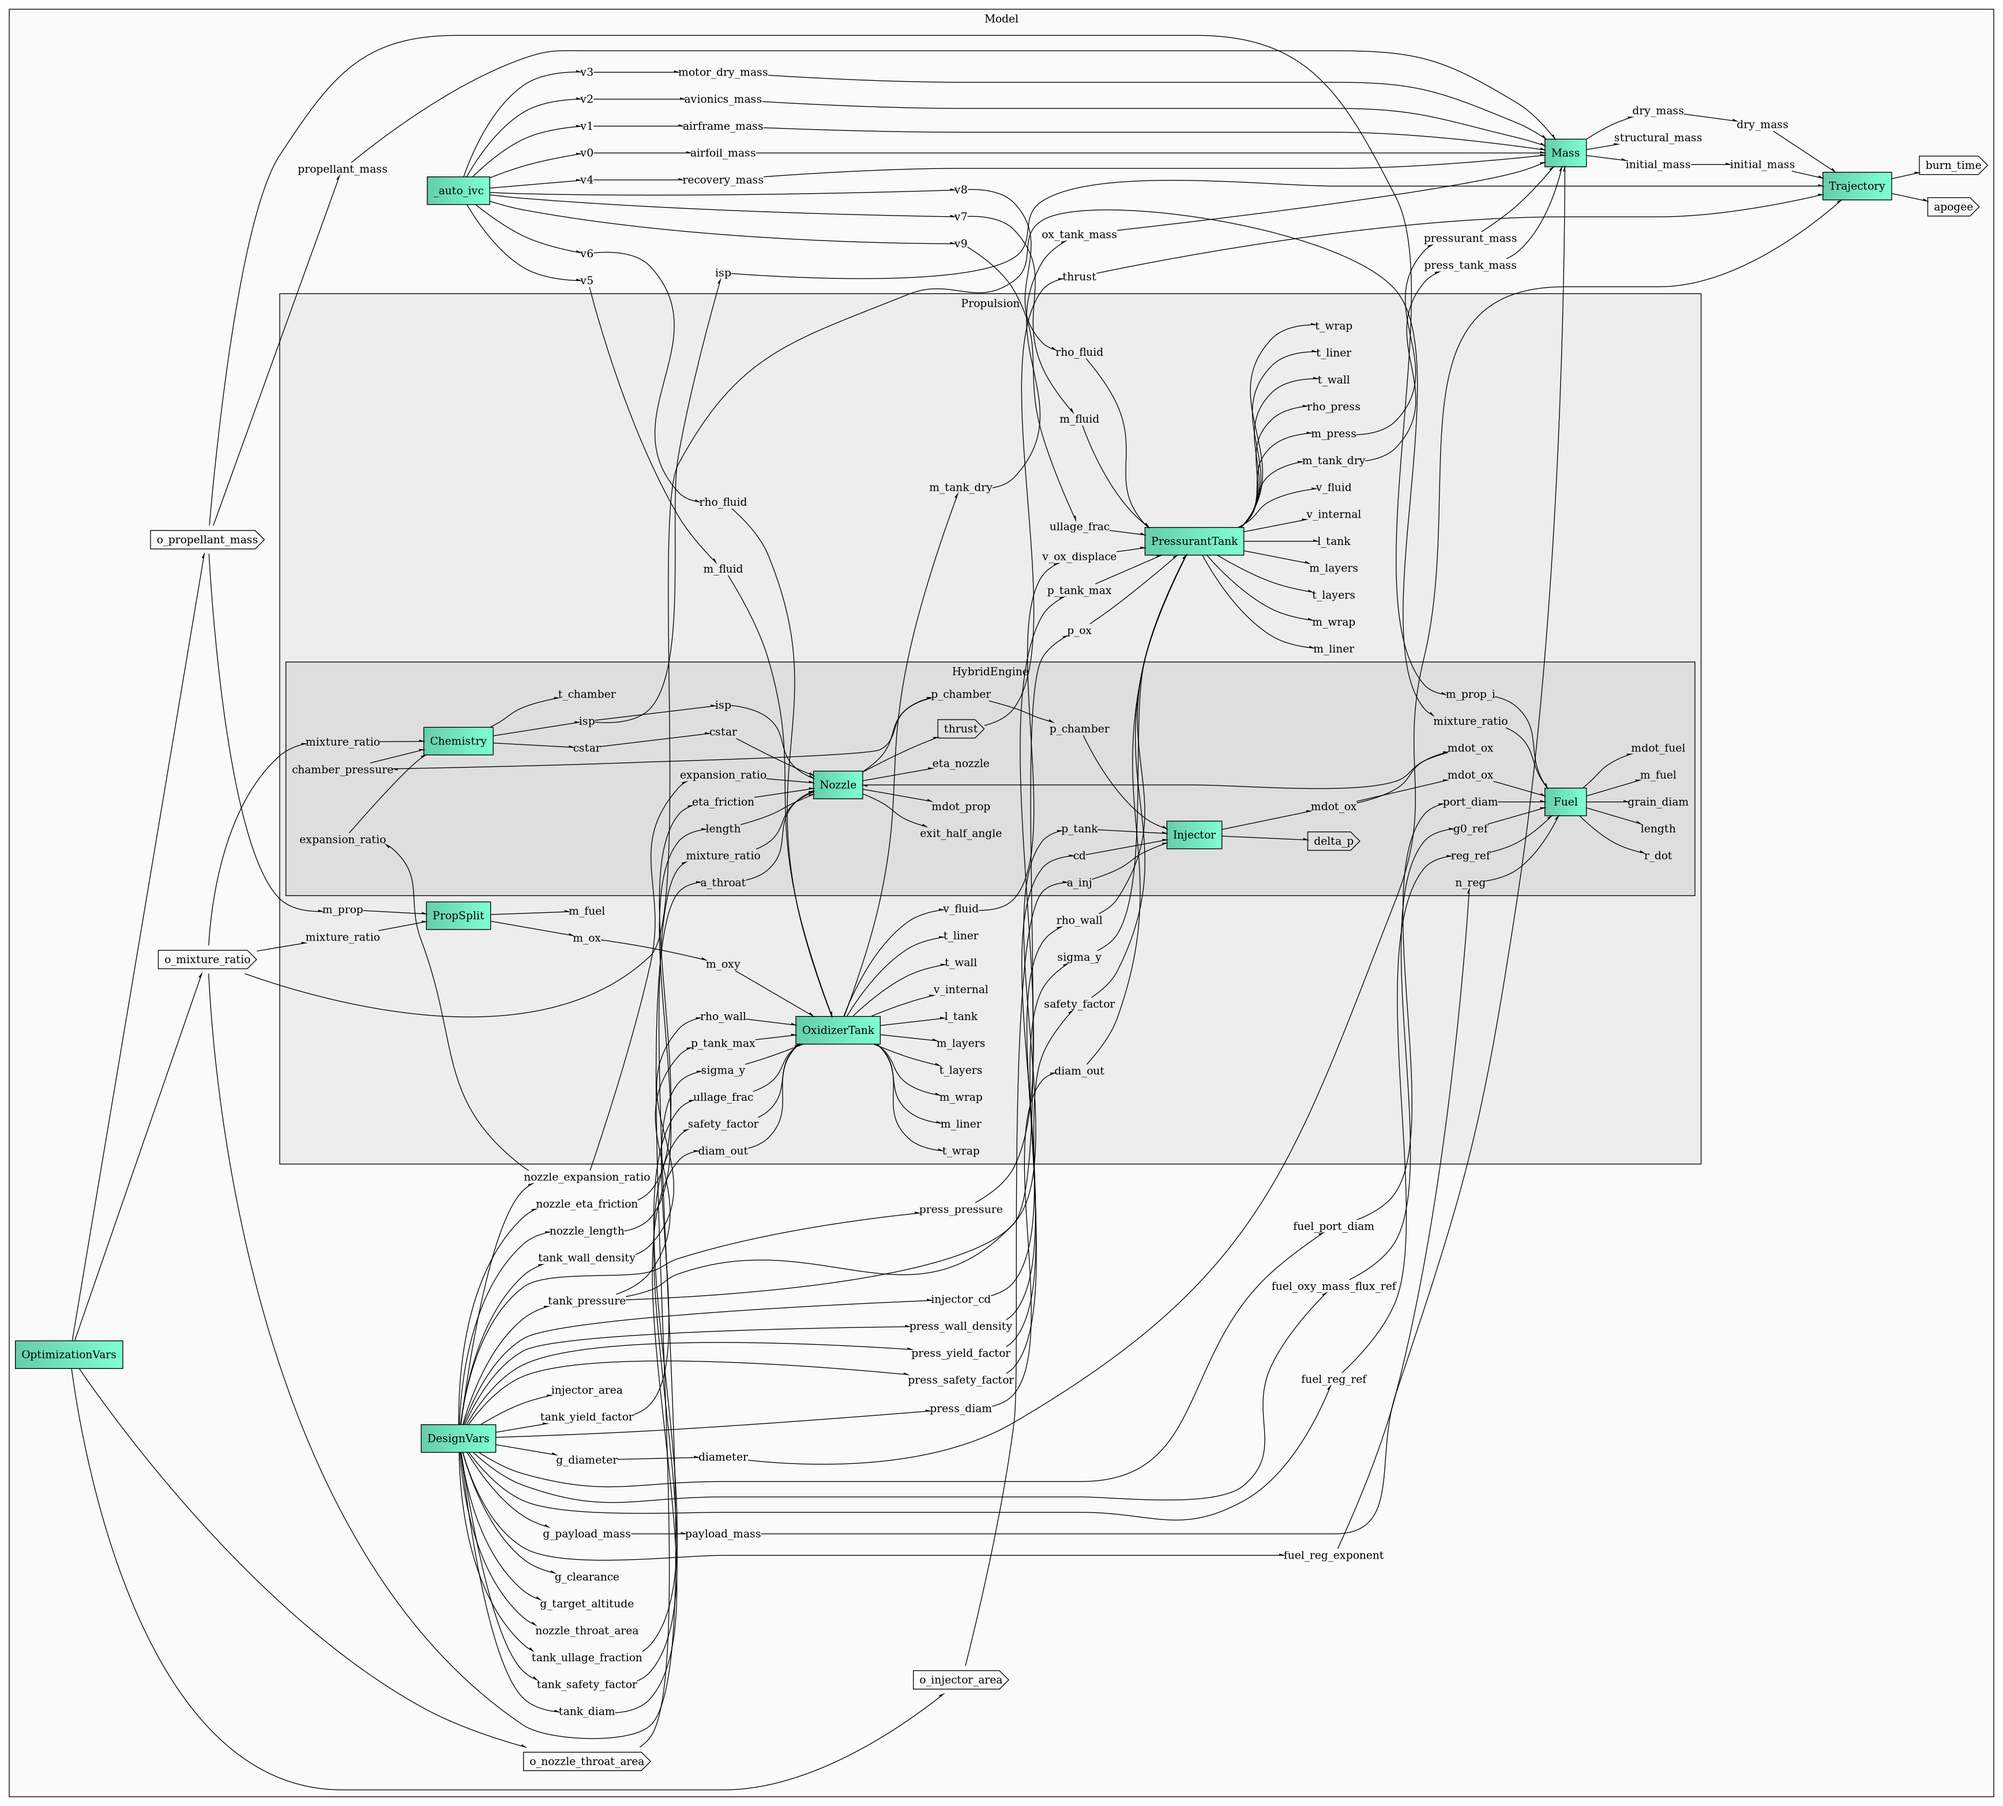
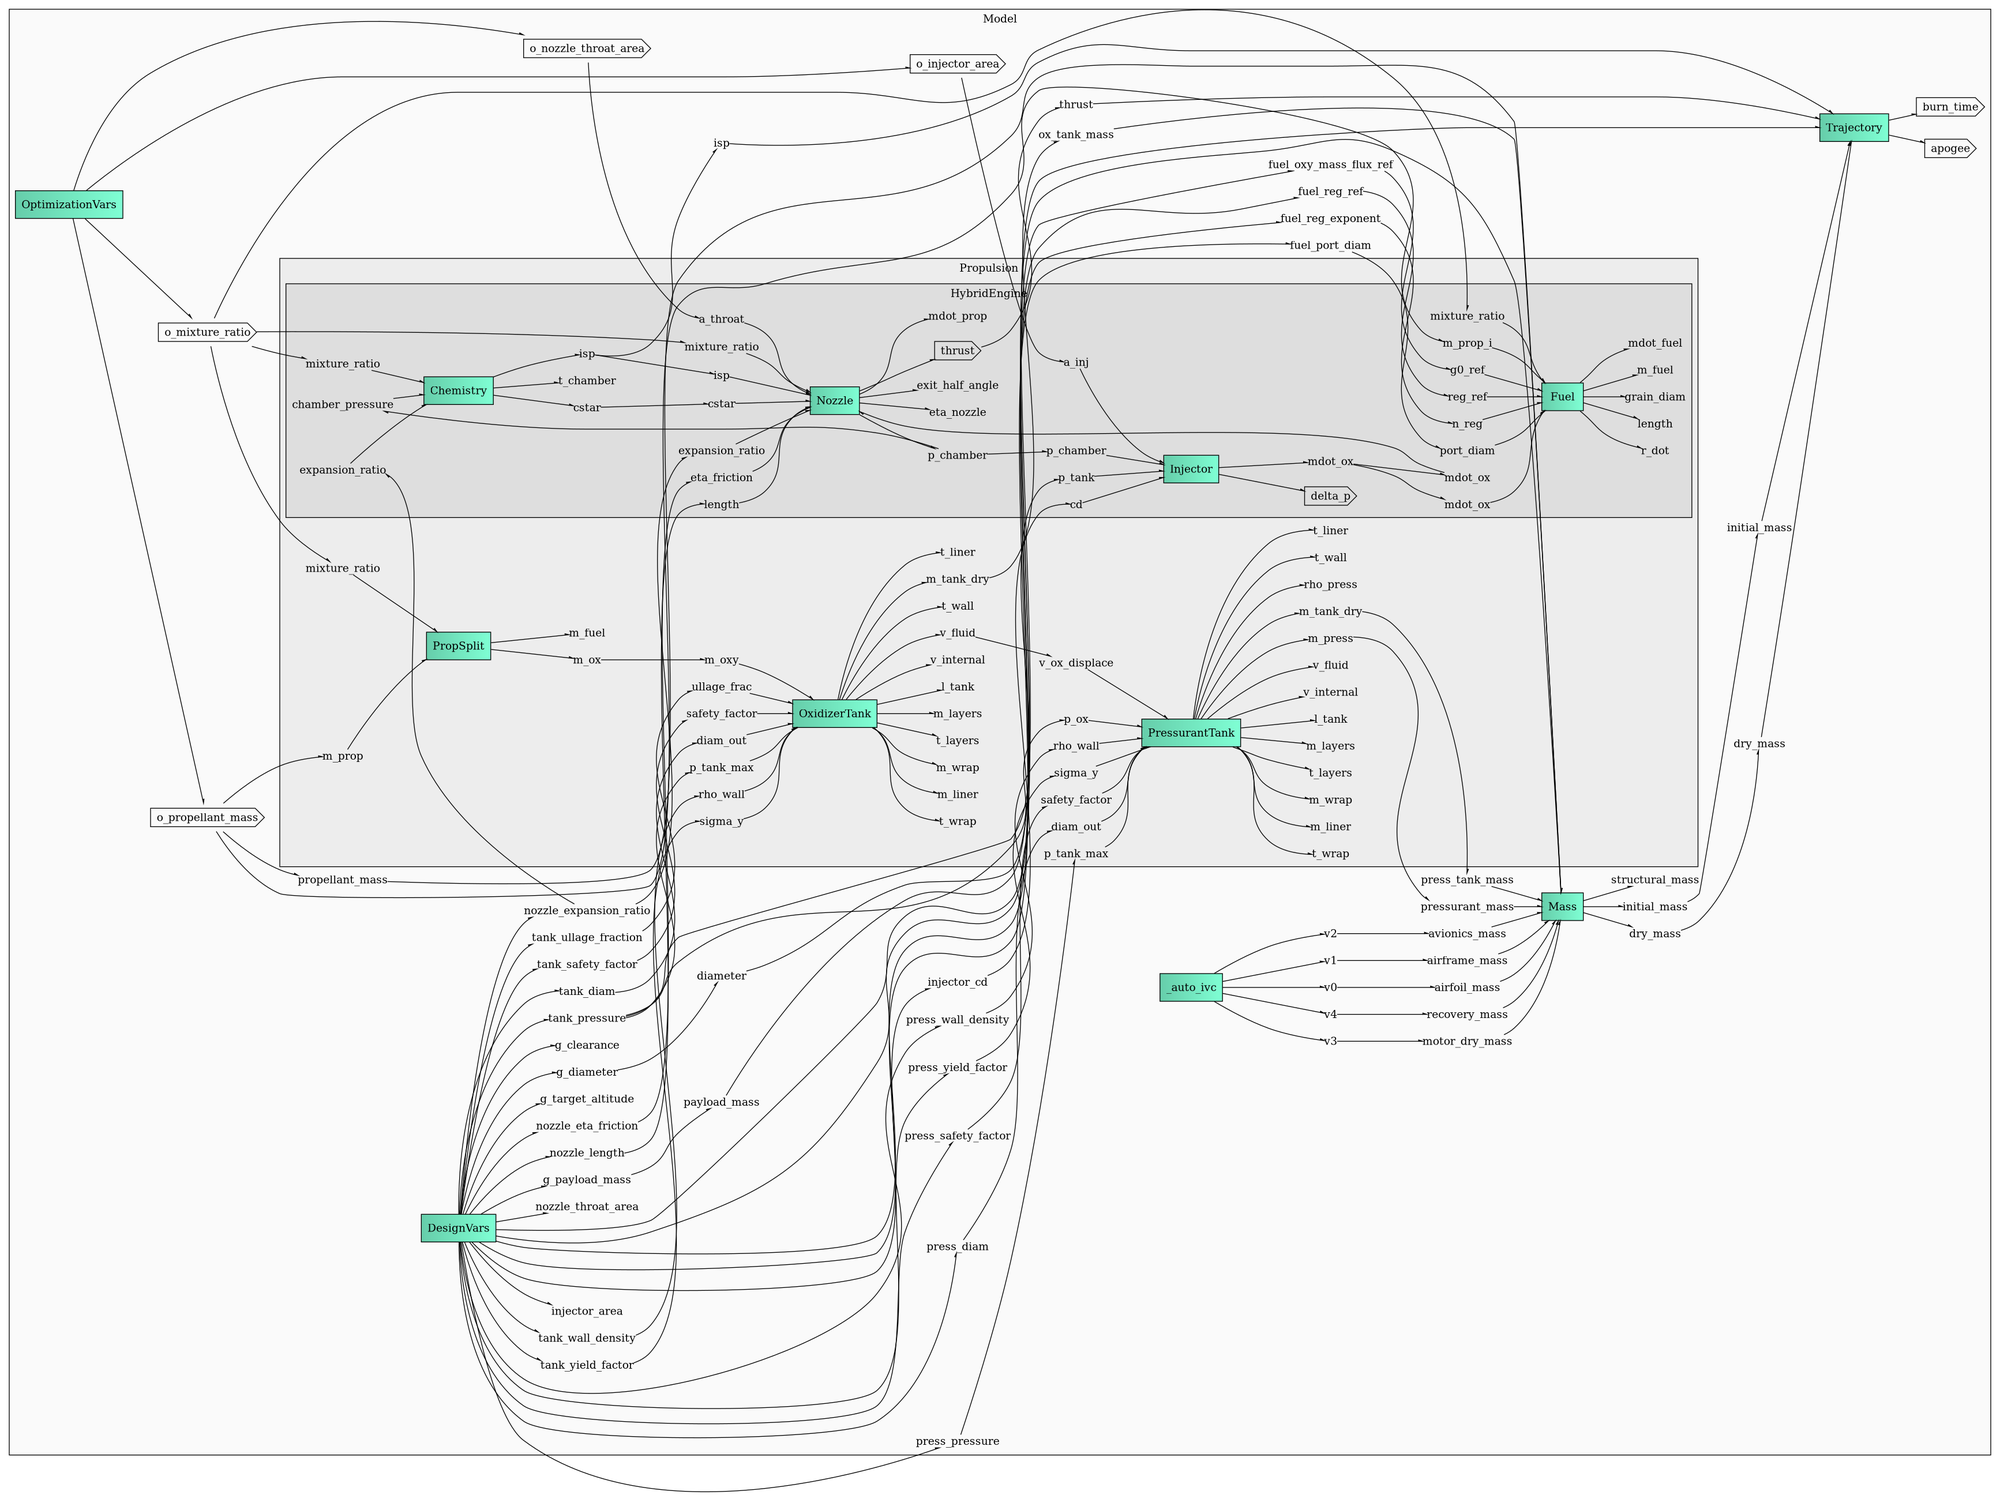
Solving dangling tank inputs via polymorphic fluid setup method

diff --git a/modules/BEARS_Rocket/comp_tank.py b/modules/BEARS_Rocket/comp_tank.py
@@ -17,16 +17,19 @@ class TankComponent(ExplicitComponent):
 			types=(LayeredWall, type(None)),
 		)
 
+	def setup_fluid_inputs(self):
+		self.add_input("m_fluid",     val=10.0,   units="kg")
+		self.add_input("rho_fluid",   val=1000.0, units="kg/m**3")
+		self.add_input("ullage_frac", val=0.1)
+
 	def setup(self):
+		self.setup_fluid_inputs()
+
 		wall = self.options["wall_material"]
 		n_layers = len(wall.layers) if wall else 1
 
-		self.add_input("m_fluid",       val=10.0,   units="kg")
-		self.add_input("rho_fluid",     val=1000.0, units="kg/m**3")
-
 		self.add_input("p_tank_max",    val=70e5,   units="Pa")
 		self.add_input("diam_out",      val=0.15,   units="m")
-		self.add_input("ullage_frac",   val=0.1)
 
 		self.add_input("safety_factor", val=1.5)
 		self.add_input("sigma_y",       val=276e6,  units="Pa")

diff --git a/modules/BEARS_Rocket/comp_tank_press.py b/modules/BEARS_Rocket/comp_tank_press.py
@@ -13,12 +13,13 @@ class PressurantTankComponent(TankComponent):
 		self.options.declare("t_gas",    default=293.15, types=float)
 		self.options.declare("z_factor", default=1.0,    types=float)
 
-	def setup(self):
-		super().setup()
-
+	def setup_fluid_inputs(self):
 		# Sizing inputs from the oxidizer system
 		self.add_input("v_ox_displace", val=0.01, units="m**3")
 		self.add_input("p_ox",          val=70e5, units="Pa")
+
+	def setup(self):
+		super().setup()
 
 		# Thermodynamic outputs
 		self.add_output("m_press",      val=1.2,    units="kg")

diff --git a/solver.py b/solver.py
@@ -32,7 +32,8 @@ from modules.BEARS_Rocket    import TestStandProblem, RocketLaunchProblem
 def patch_variable_table():
 	"""
 	Dirty hack to prevent OpenMDAO from taking the Euclidean norm of array
-	variables since that makes no sense for this setup
+	variables for the variable printout, since that makes no sense for this
+	setup
 	"""
 
 	orig_write = vt.write_var_table

diff --git a/modules/BEARS_Rocket/comp_tank_oxy.py b/modules/BEARS_Rocket/comp_tank_oxy.py
@@ -17,6 +17,6 @@ class OxidizerTankComponent(TankComponent):
 	def get_fluid_density(self, inputs):
 		return self.options["rho_ox"]
 
-	def setup(self):
-		super().setup()
-		self.add_input("m_oxy", val=10.0, units="kg")
+	def setup_fluid_inputs(self):
+		self.add_input("m_oxy",       val=10.0, units="kg")
+		self.add_input("ullage_frac", val=0.01)
